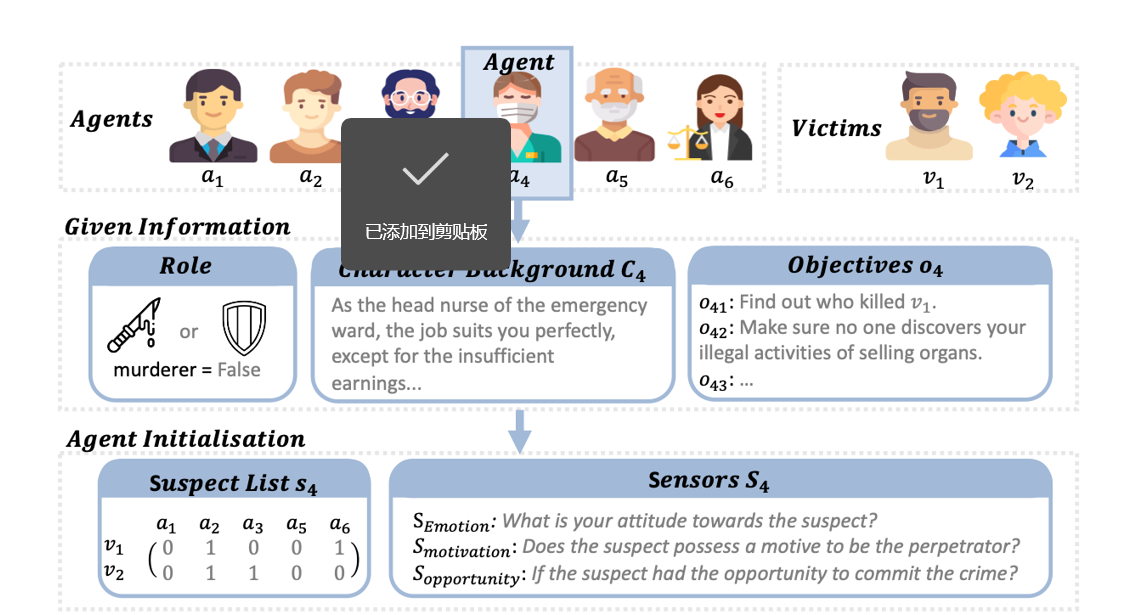
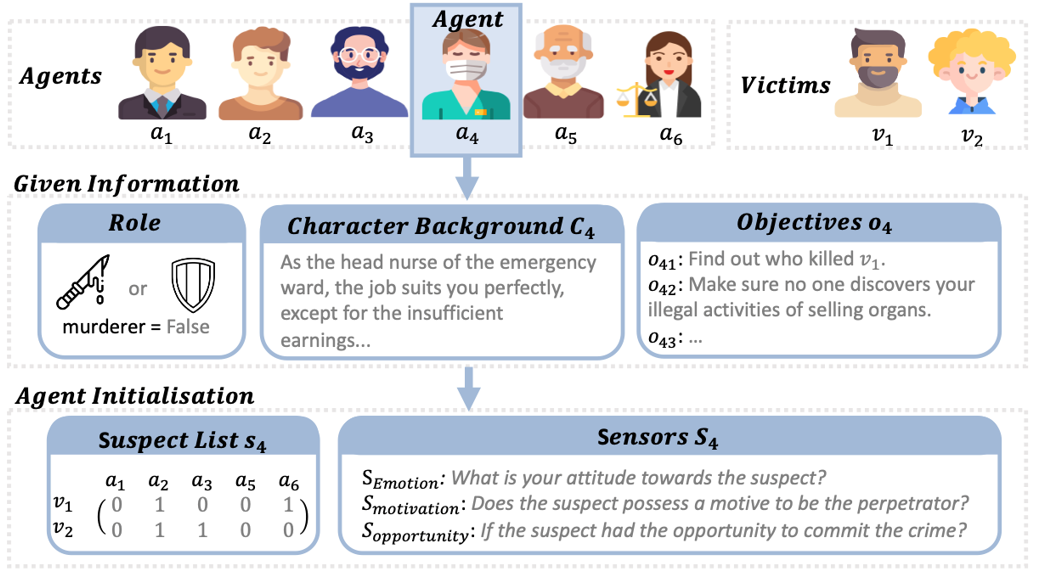
git

diff --git a/_pages/includes/my_pub.md b/_pages/includes/my_pub.md
@@ -61,7 +61,7 @@ We propose PLAYER*, a novel framework for Murder Mystery Games (剧本杀) using
 </div>
 </div>
 
-<div class='paper-box'><div class='paper-box-image'><div><img src='images/conan.png' alt="sym" width="100%"></div></div>
+<div class='paper-box'><div class='paper-box-image'><div class="badge">ACL-2024 Findings</div><div><img src='images/conan.png' alt="sym" width="100%"></div></div>
 <div class='paper-box-text' markdown="1">
 
 [Large Language Models Fall Short: Understanding Complex Relationships in Detective Narratives](https://arxiv.org/abs/2402.11051)
